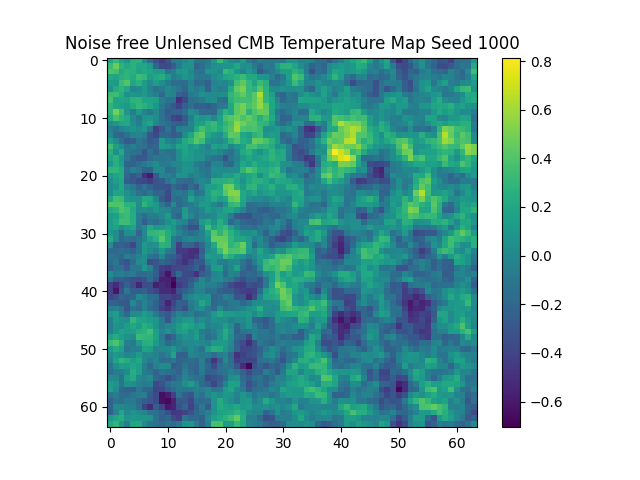
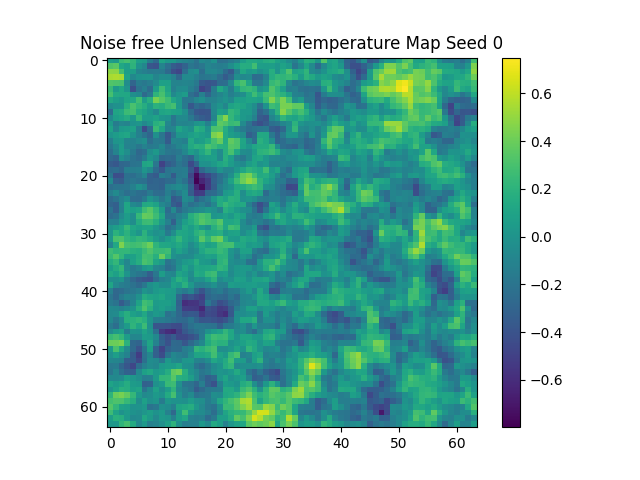
hmc_unlensed_map_seed0

diff --git a/data/generate_cosmopower_unlensed_maps.py b/data/generate_cosmopower_unlensed_maps.py
@@ -193,4 +193,4 @@ def generate_cosmopower_map(seed, noise_level = 0.08, h0 = 67.37, omch2 = 0.1198
 
 
 #example function call to generate a map, save it, and plot it.
-generate_cosmopower_map(1000, 0.08, 67.37,0.1198, 0.02233, True, True)
+generate_cosmopower_map(0, 0.08, 67.37,0.1198, 0.02233, True, True)
